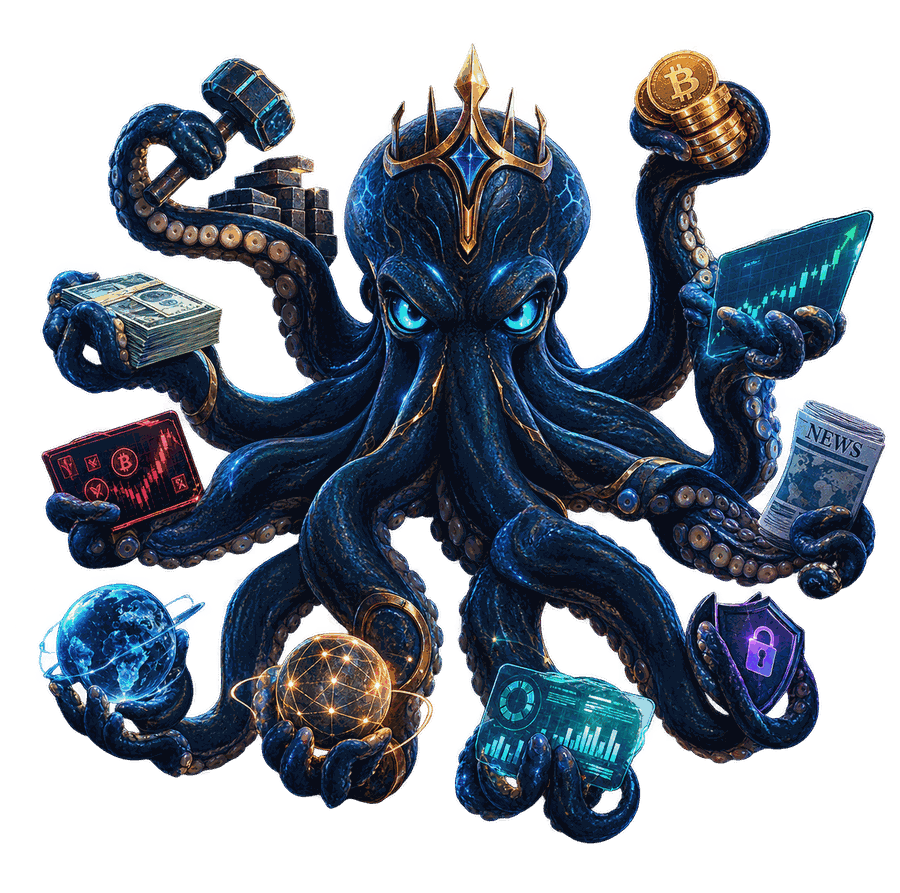
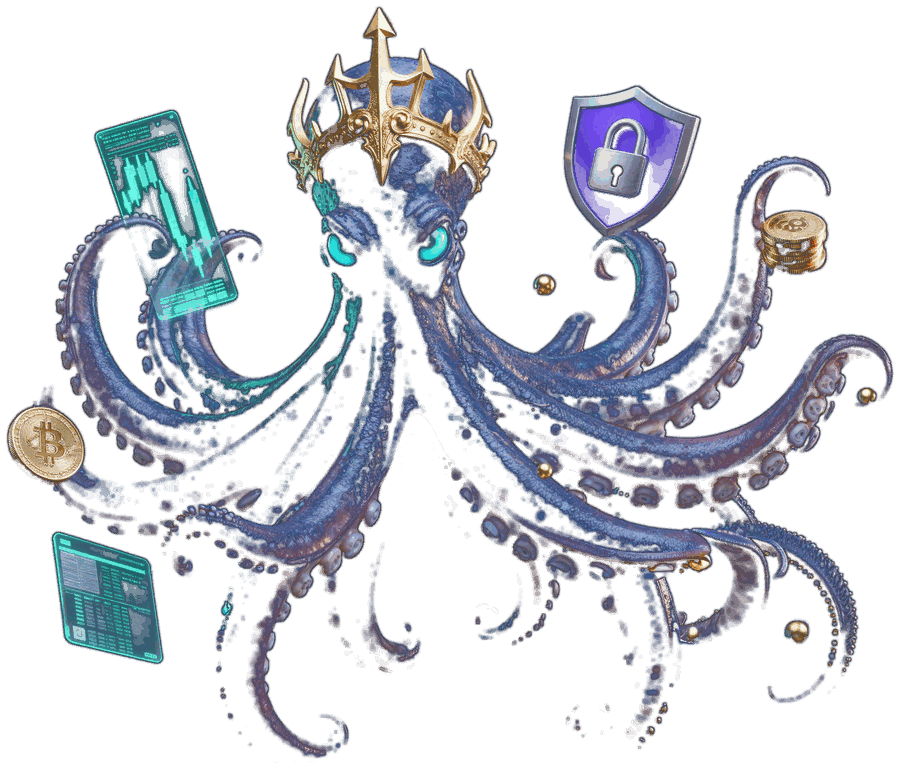
La mascota, generada — no la imagen de referencia
El pulpo que habia puesto era el PNG que mando el usuario. Lo que pedia era
otra cosa: que se CREARA uno parecido. Este esta generado con z_image a
traves del MCP de Higgsfield, a partir del brief (kraken navy, corona de
tridente de oro, ojos cian, venas doradas, paneles holograficos, monedas,
escudo) y elegido entre nueve intentos.

Lo que se aprendio por el camino, para no repetirlo: en el plan gratuito solo
z_image esta disponible —gpt_image_2, recraft y soul_location devuelven
'Requires basic plan or higher'— y los prompts largos fallan en cola sin
mensaje: los tres primeros intentos, con el brief entero, murieron en
'failed'. Con el prompt cortado a la mitad salen a la primera. Coste real:
0,15 creditos por imagen, nueve imagenes.

El fondo se recorta a alfa por distancia de color al fondo medido en el marco
(18,28,49), con rampa suave 22-56 y feather: funciona porque el panel de
destino tambien es azul muy oscuro, asi que lo que el recorte se deja en
semitransparente no se ve.

Claude-Session: https://claude.ai/code/session_01C9EbQAJ78LoVoEJbEMcPVs

diff --git a/bot/web/index.html b/bot/web/index.html
@@ -862,7 +862,7 @@ function nodo(a){
     <g id="burbujas"></g>
     <g id="enlaces">${enlaces}</g>
     <g id="octoWrap"><g id="octo">
-      <ellipse cx="500" cy="258" rx="215" ry="205" fill="#1C5C96" opacity=".16"
+      <ellipse cx="500" cy="250" rx="190" ry="168" fill="#1C5C96" opacity=".1"
         filter="url(#agSoft)"/>
       <ellipse class="mantle" id="mantle" cx="500" cy="258" rx="195" ry="190"
         fill="#3E3F93" opacity="0" filter="url(#agSoft)"/>
@@ -870,7 +870,7 @@ function nodo(a){
          [330, 330, 44, 38], [676, 348, 42, 36], [500, 86, 46, 30]]
         .map(([x, y, rx, ry]) => `<ellipse class="blush" cx="${x}" cy="${y}"
           rx="${rx}" ry="${ry}" fill="#5B5FD6" filter="url(#agSoft)" opacity="0"/>`).join("")}
-      <image id="mascota" href="octopus.png" x="278" y="18" width="444" height="440"
+      <image id="mascota" href="octopus.png" x="260" y="38" width="480" height="408"
         preserveAspectRatio="xMidYMid meet"/>
       <text x="500" y="504" text-anchor="middle" font-family="IBM Plex Mono,monospace"
         font-size="13" font-weight="600" letter-spacing="2.2"

diff --git a/demo/pulpo.html b/demo/pulpo.html
@@ -837,7 +837,7 @@ function nodo(a){
     <g id="burbujas"></g>
     <g id="enlaces">${enlaces}</g>
     <g id="octoWrap"><g id="octo">
-      <ellipse cx="500" cy="258" rx="215" ry="205" fill="#1C5C96" opacity=".16"
+      <ellipse cx="500" cy="250" rx="190" ry="168" fill="#1C5C96" opacity=".1"
         filter="url(#agSoft)"/>
       <ellipse class="mantle" id="mantle" cx="500" cy="258" rx="195" ry="190"
         fill="#3E3F93" opacity="0" filter="url(#agSoft)"/>
@@ -845,7 +845,7 @@ function nodo(a){
          [330, 330, 44, 38], [676, 348, 42, 36], [500, 86, 46, 30]]
         .map(([x, y, rx, ry]) => `<ellipse class="blush" cx="${x}" cy="${y}"
           rx="${rx}" ry="${ry}" fill="#5B5FD6" filter="url(#agSoft)" opacity="0"/>`).join("")}
-      <image id="mascota" href="octopus.png" x="278" y="18" width="444" height="440"
+      <image id="mascota" href="octopus.png" x="260" y="38" width="480" height="408"
         preserveAspectRatio="xMidYMid meet"/>
       <text x="500" y="504" text-anchor="middle" font-family="IBM Plex Mono,monospace"
         font-size="13" font-weight="600" letter-spacing="2.2"
